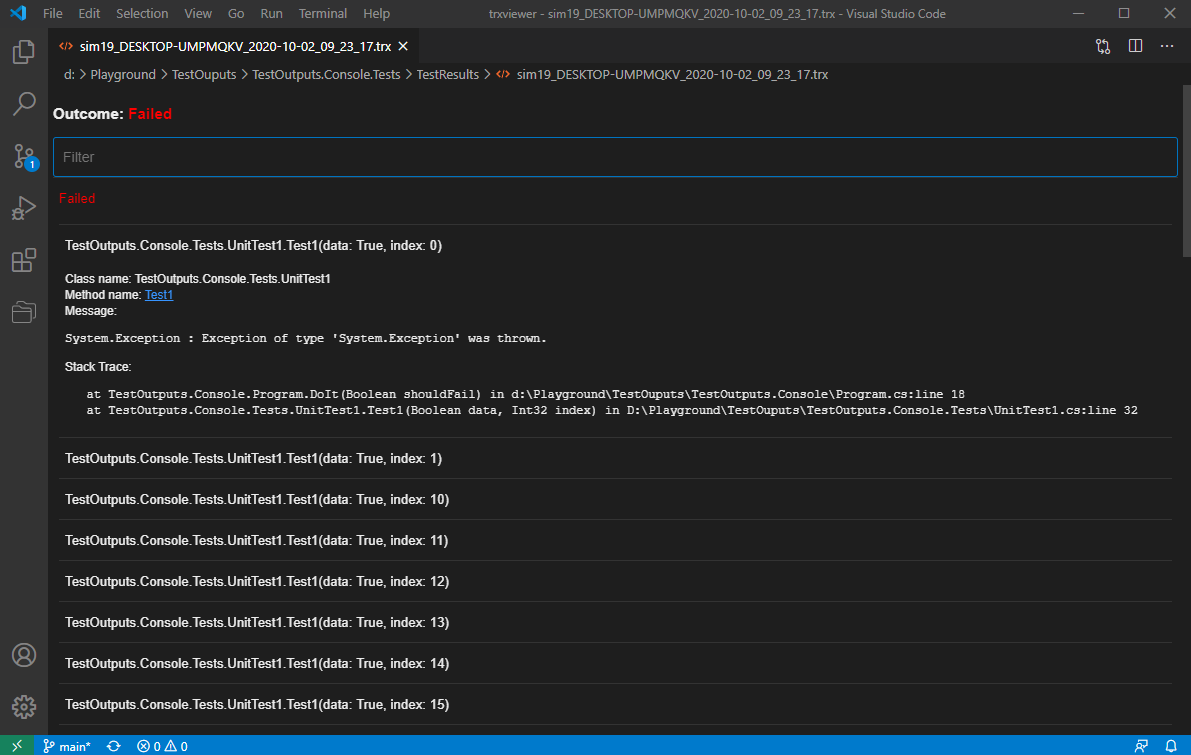
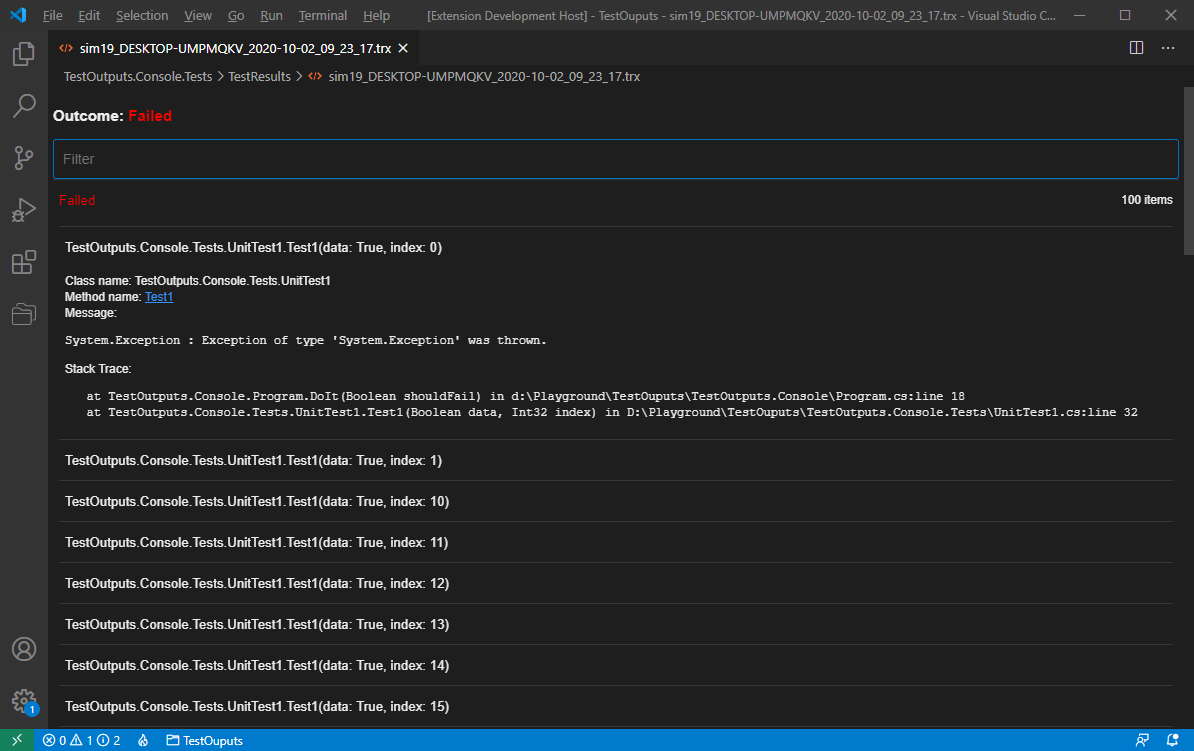
Added number of items per result group. (#32)

diff --git a/src/frontend/wwwroot/css/app.css b/src/frontend/wwwroot/css/app.css
@@ -49,21 +49,15 @@ body {
     background-color: var(--background-color)
 }
 
-#blazor-error-ui {
-    background: lightyellow;
-    bottom: 0;
-    box-shadow: 0 -1px 2px rgba(0, 0, 0, 0.2);
+/* Hiding the icon part and ajusting grid to remove icon. */
+.group::part(icon){
     display: none;
-    left: 0;
-    padding: 0.6rem 1.25rem 0.7rem 1.25rem;
-    position: fixed;
-    width: 100%;
-    z-index: 1000;
 }
-
-#blazor-error-ui .dismiss {
-    cursor: pointer;
-    position: absolute;
-    right: 0.75rem;
-    top: 0.5rem;
+.group::part(heading){
+    grid-template-columns: auto 1fr auto;
+}
+.group::part(end)
+{
+    /* Taken from https://github.com/microsoft/fast/blob/906d9c2f42172c7e0c9041e0d6fb07609c83cfbd/packages/web-components/fast-components/src/accordion-item/accordion-item.styles.ts#L47 */
+    padding-right: calc((6 + (var(--design-unit) * 2 * var(--density))) * 1px);
 }

diff --git a/src/frontend/src/components/UnitTestResultGroup.vue b/src/frontend/src/components/UnitTestResultGroup.vue
@@ -1,6 +1,7 @@
 <template>
-  <fast-accordion-item :expanded="expanded" ref="accordionItem" @change="onAccordionItemChanged">
+  <fast-accordion-item :expanded="expanded" ref="accordionItem" @change="onAccordionItemChanged" class="group">
     <span slot="heading" :style="getStyle(result)">{{ result }}</span>
+    <span slot="end" style="float:right">{{items.length}} items</span>
     <div style="display: flex; flex-direction: column; width: 100%">
       <filtered-results :items="items" :filter="filterCallback">
         <template v-slot:default="filtered">

diff --git a/src/frontend/src/components/UnitTestResultGroup.spec.ts b/src/frontend/src/components/UnitTestResultGroup.spec.ts
@@ -47,6 +47,7 @@ describe('UnitTestResultGroup.vue', () => {
         });
 
         expect(wrapper.find("[slot=heading]").text()).toBe(result);
+        expect(wrapper.find("[slot=end]").text()).toBe("1 items");
         expect(wrapper.find("[name=testitem]").text()).toBe(testName);
     });
 

diff --git a/src/vscode-trxviewer/static/CHANGELOG.md b/src/vscode-trxviewer/static/CHANGELOG.md
@@ -1,3 +1,6 @@
+# 0.0.7
+- Total per result kind(Passed, Failed, etc.)
+  
 # 0.0.6
 - Display states is now restored
   -  Filter
